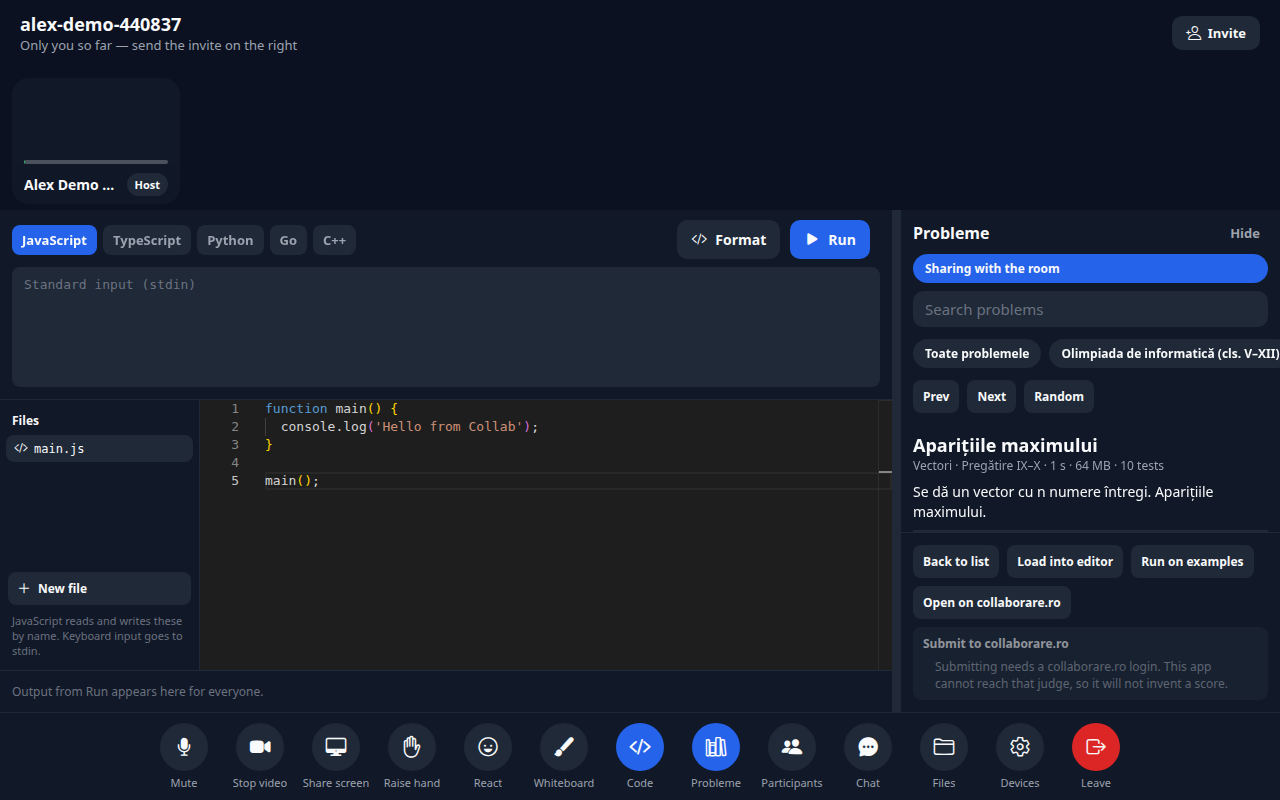
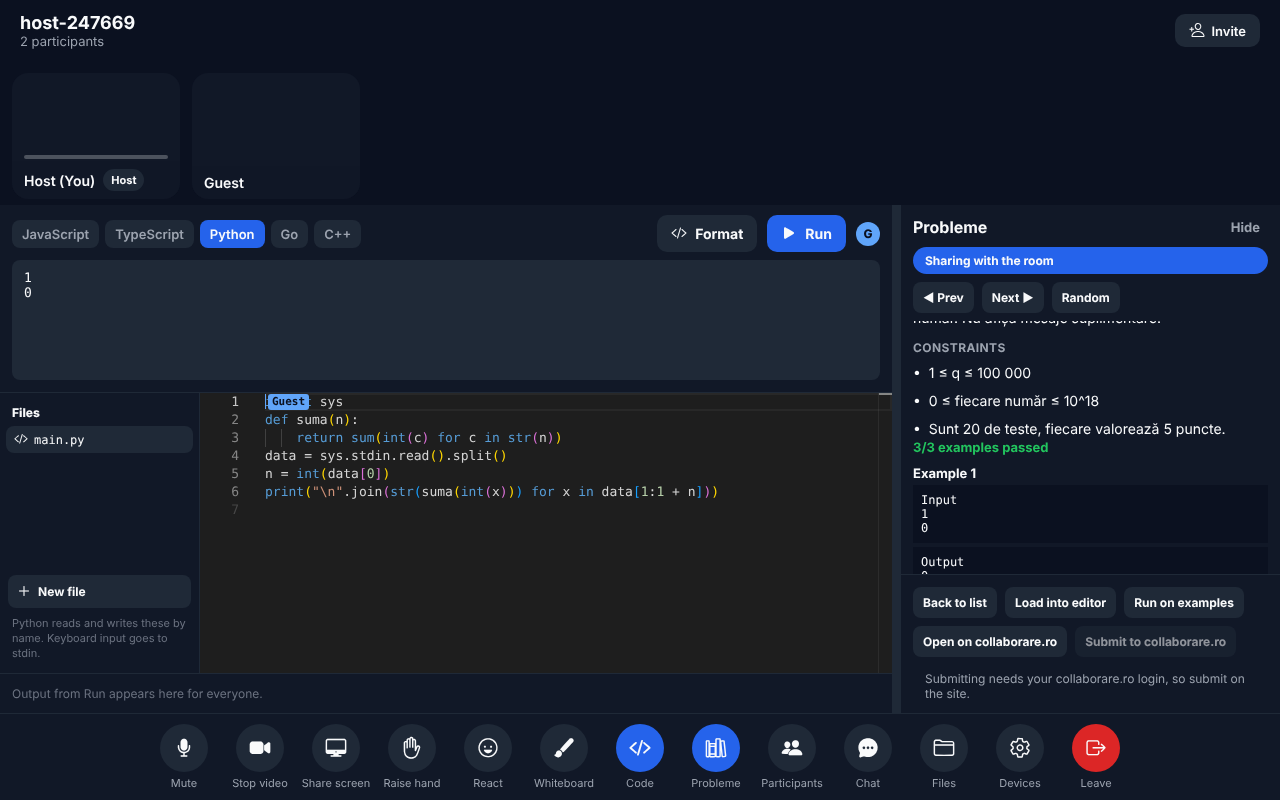
Show the problems panel in action in the README.

diff --git a/README.md b/README.md
@@ -52,7 +52,13 @@ The first join after the server has been idle can take about a minute — Render
 
 A browser may call those routes only from `https://alexalghisi.github.io` or from `http://localhost` (any port). Each problem includes its category, time and memory limits, the test count when the catalog has one, the statement, and examples with input and output. The hosted server serves this after the API is deployed; until then the call shows a link to `https://collaborare.ro/probleme/<slug>`.
 
-During a call, **Probleme** opens the catalog beside the editor.
+During a call, **Probleme** opens the catalog beside the editor. Try it at **[alexalghisi.github.io/collab](https://alexalghisi.github.io/collab/)**.
+
+<p align="center">
+  <img src="./assets/problems-panel.gif" alt="Host picks a problem and the guest follows, Load into editor, Run on examples" width="800" />
+</p>
+
+_Two real browsers in one call (recorded from the e2e stack): the host picks **Suma cifrelor**, steps with Alt+→ / Alt+←, loads a Python starter, and **Run on examples** reports 3/3. The guest's panel follows every change._
 
 ![Problems panel beside the editor](./assets/problems-panel.png)
 
@@ -61,6 +67,8 @@ On a wide screen the column can be dragged and its width is remembered. At 768 p
 ![Problems panel on a phone](./assets/problems-panel-mobile.png)
 
 Search and the chips use the same categories as [collaborare.ro](https://collaborare.ro) (Vectori, Matrice, Backtracking, Programare dinamică, Grafuri, Subiecte oficiale OJI 2026, and the rest of that list). The host's choice is shared live. **Browsing freely** keeps a local choice until **Follow the host** is turned back on. **Load into editor** inserts a C++ or Python starter and the first example as the program input, after asking when the editor is not empty. **Run on examples** sends that program through the same hosted compiler as **Run** and marks each example. **Submit to collaborare.ro** stays disabled: this app is not signed into that judge and does not invent a score. **Open on collaborare.ro** is the fallback when the catalog cannot be loaded. A refresh restores the problem from the room.
+
+Keyboard: **Alt+→** next problem, **Alt+←** previous, Tab through every control (each has a label and a visible focus state). Statements render collaborare.ro's Markdown (headings, `code`, lists), and **Run on examples** prints the output that differed on a failed example.
 
 ---
 
@@ -707,8 +715,12 @@ Every push and pull request runs `.github/workflows/ci.yml`:
 npm run format      # Prettier (check)
 npm run lint        # ESLint
 npm run type-check  # TypeScript (strict, no emit)
-npm test            # Vitest
+npm test            # Vitest: unit (Node) + components (react-native-web in jsdom)
+npm run e2e:build   # export the web app against a local server
+npm run e2e         # Playwright: two browsers in one call
 ```
+
+`npm run e2e` starts `e2e/stack.mjs` (a stand-in for the collaborare.ro catalog, the real signaling server, and the exported app) and drives a host and a guest: the host picks a problem and the guest sees it, Alt+arrows, Load into editor (with the overwrite prompt), Run on examples (pass and fail), free browsing, a refresh, and no console errors.
 
 Tests run on Node against the real modules — the signaling suite starts the
 Socket.IO server on an ephemeral port and drives it through the client
